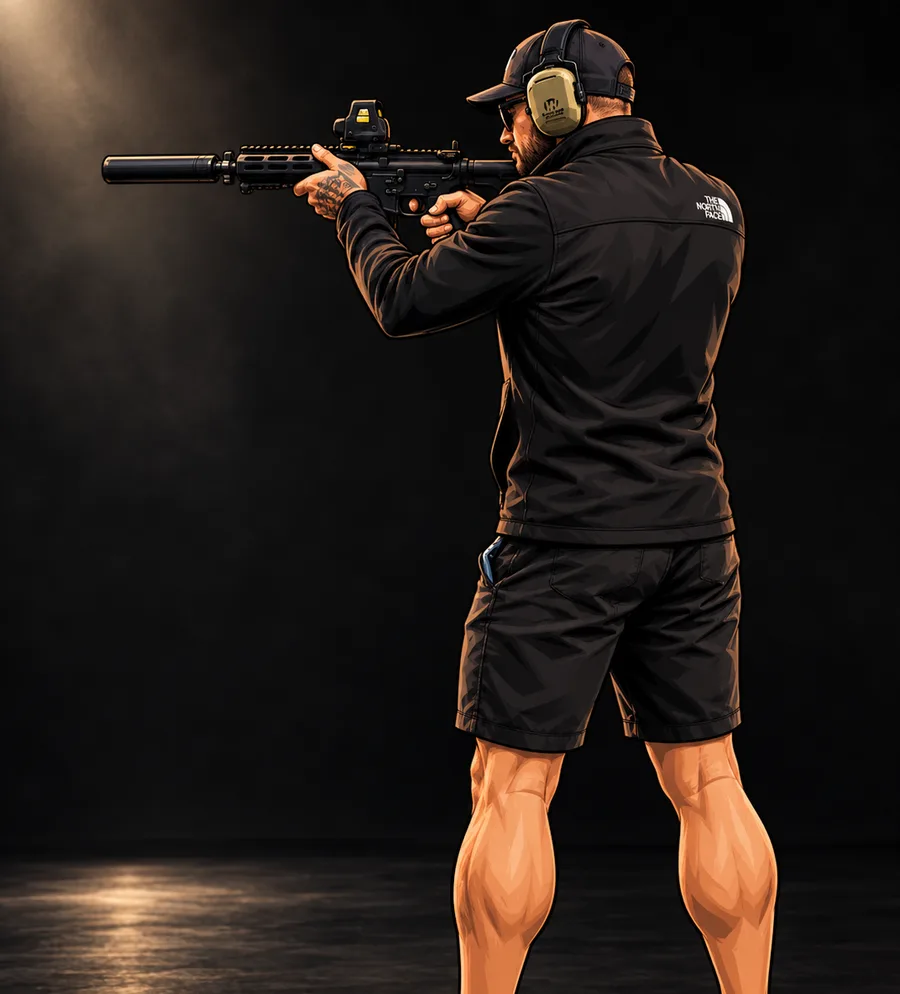
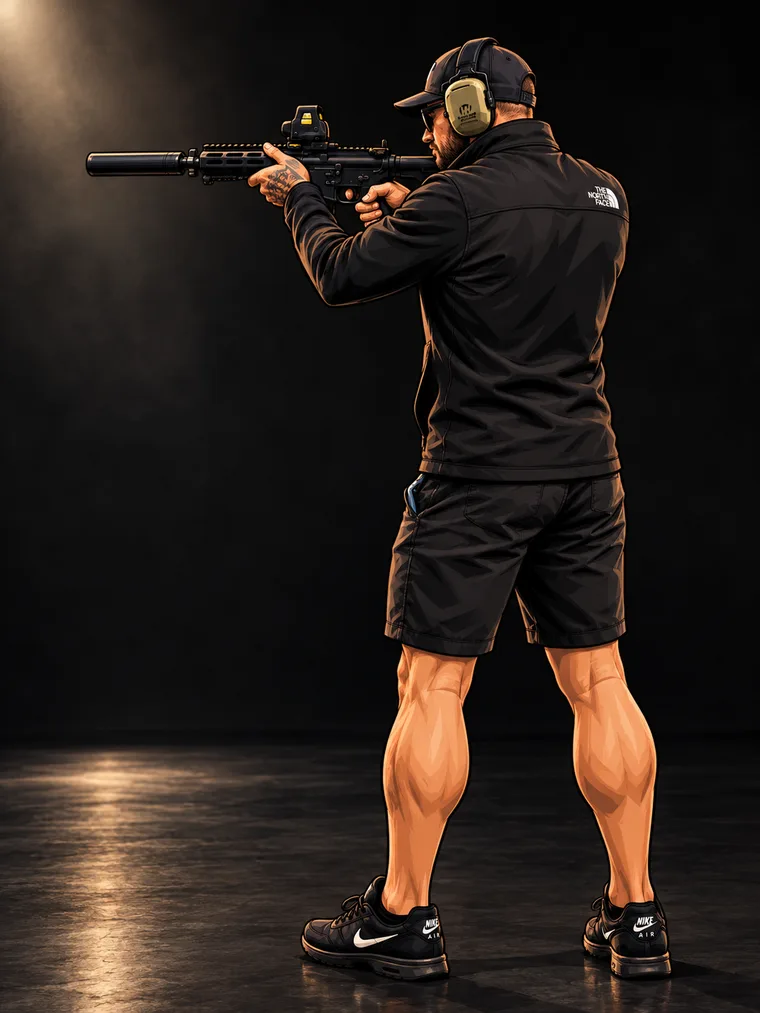
Gun Vault hero: smaller full figure, head no longer cropped, edges faded into the page
Claude-Session: https://claude.ai/code/session_01WoTkRTHrDys8Z6X3484mRP

Changed region(s): [[0.0, 0.0, 0.9684, 1.0], [0.6053, 0.2495, 0.6658, 0.3119], [0.0, 0.0, 0.0303, 0.0312]]

diff --git a/public/index.html b/public/index.html
@@ -378,8 +378,8 @@ body{padding-bottom:calc(env(safe-area-inset-bottom) + var(--tab) + 22px)}
 /* Gun Vault hero */
 .gv-h1{position:relative;z-index:2}
 .top{position:relative;z-index:3}
-.gv-hero{position:relative;margin:calc(-64px - env(safe-area-inset-top) - 10px) -16px 0;height:min(128vw,560px);overflow:hidden;z-index:0}
-.gv-hero img{width:100%;height:100%;object-fit:cover;object-position:62% 0%;display:block;-webkit-user-select:none;user-select:none}
+.gv-hero{position:relative;margin:calc(-64px - env(safe-area-inset-top) - 10px) -16px 0;height:min(118vw,520px);overflow:hidden;z-index:0}
+.gv-hero img{position:absolute;right:-6%;top:calc(env(safe-area-inset-top) + 74px);height:calc(100% - env(safe-area-inset-top) - 74px);width:auto;max-width:none;display:block;-webkit-user-select:none;user-select:none;-webkit-mask-image:linear-gradient(90deg,transparent 0,#000 22%),linear-gradient(180deg,transparent 0,#000 8%,#000 80%,transparent 100%);-webkit-mask-composite:source-in;mask-image:linear-gradient(90deg,transparent 0,#000 22%),linear-gradient(180deg,transparent 0,#000 8%,#000 80%,transparent 100%);mask-composite:intersect}
 .gv-hero::before{content:"";position:absolute;inset:0;background:linear-gradient(180deg,rgba(5,5,5,.7) 0%,rgba(5,5,5,0) 18%,rgba(5,5,5,0) 50%,rgba(5,5,5,.8) 80%,#050505 100%),linear-gradient(90deg,rgba(5,5,5,.55),rgba(5,5,5,0) 55%);z-index:1}
 .gv-eb{font-size:11px;letter-spacing:.4em;text-transform:uppercase;color:var(--gold);font-weight:600}
 .gv-title{font:400 46px/1.05 "Didot","Bodoni 72",Georgia,serif;color:#fbf3dc;margin-top:6px;text-shadow:0 4px 18px rgba(0,0,0,.8)}
@@ -391,6 +391,6 @@ body{padding-bottom:calc(env(safe-area-inset-bottom) + var(--tab) + 22px)}
 <body>
 <div id="cf"></div>
 <main id="app"><div class="empty">Loading…</div></main>
-<script src="/app.js?v=38"></script>
+<script src="/app.js?v=39"></script>
 </body>
 </html>

diff --git a/public/app.js b/public/app.js
@@ -685,7 +685,7 @@
     if (GV.data.error) return head + `<div class="empty">${esc(GV.data.error)}</div>`;
     const t = gvTotals(), d = GV.data, imp = GV.importing;
     const banner = imp ? `<div class="pv-prog"><i style="width:${imp.total ? Math.round(((imp.total - imp.left) / imp.total) * 100) : 4}%"></i><span>Bringing in your Safe Ledger${imp.total ? ` · ${imp.total - imp.left} of ${imp.total} files` : "…"}</span></div>` : "";
-    const sum = `<section class="gv-hero"><picture><source srcset="/gv-hero.webp?v=1" type="image/webp"><img src="/gv-hero.jpg?v=1" alt="" draggable="false"></picture>
+    const sum = `<section class="gv-hero"><picture><source srcset="/gv-hero.webp?v=2" type="image/webp"><img src="/gv-hero.jpg?v=2" alt="" draggable="false"></picture>
       <div class="gv-hero-txt"><div class="gv-eb">Safe Ledger</div><div class="gv-title">Gun Vault</div><div class="lbl" style="color:var(--gold);margin-top:14px">Collection value</div><div class="hero-num"><span data-count="${Math.round(t.all)}" data-fmt="usd">${usd(t.all, false)}</span></div></div></section>
       <div class="lux gv-sum" style="--i:0"><div class="cols" style="margin:0;padding:0;border:0"><div><div class="lbl">Firearms</div><div class="v">${d.firearms.length} · ${usd(t.firearms, false)}</div></div>
       <div><div class="lbl">NFA</div><div class="v">${d.nfa.length} · ${usd(t.nfa, false)}</div></div>
